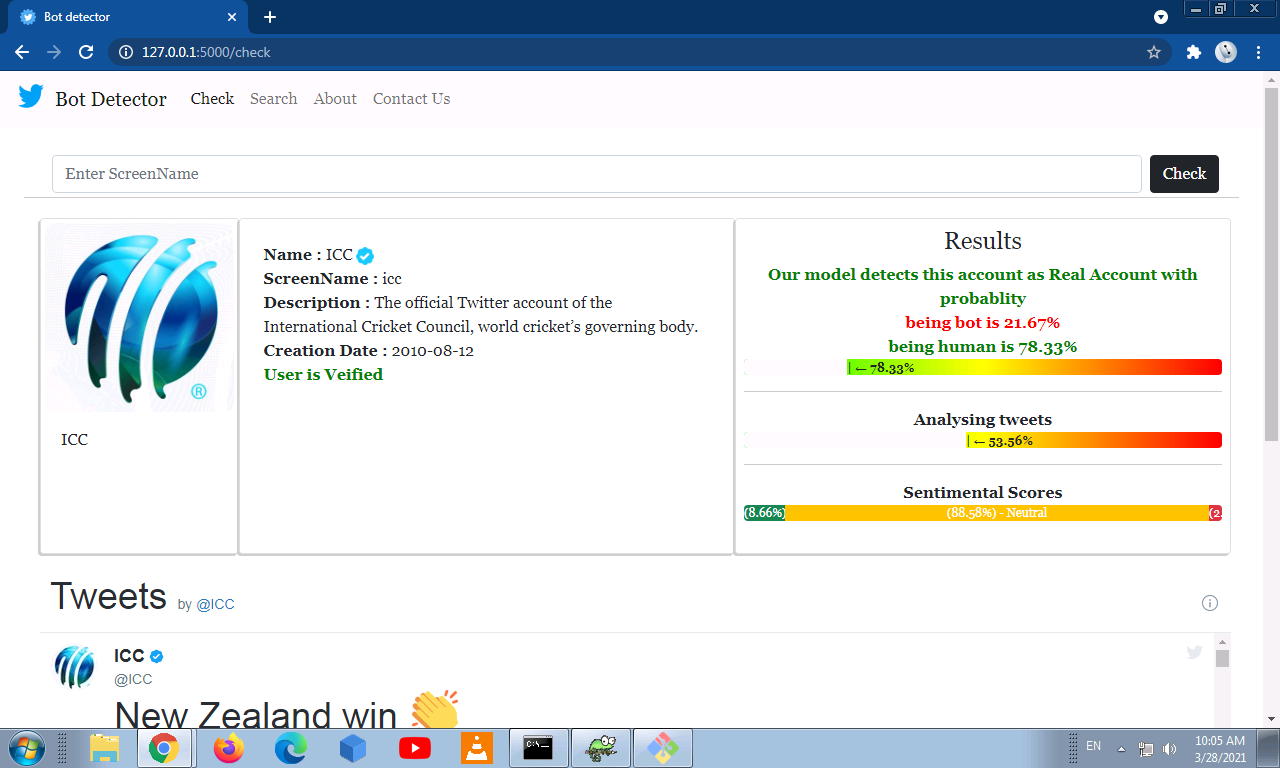
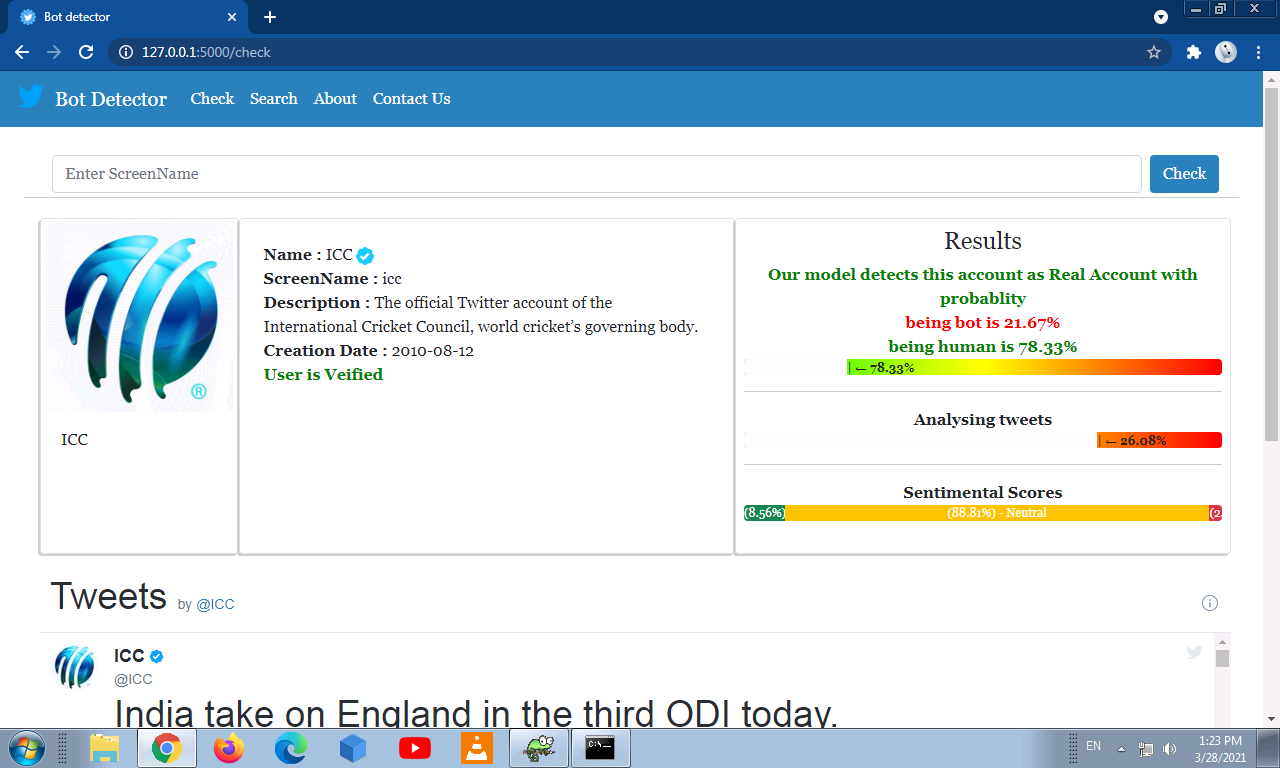
UI Changes

diff --git a/templates/contact.html b/templates/contact.html
@@ -9,86 +9,23 @@ input[type=text],input[type=email], select, textarea{
   box-sizing: border-box;
   resize: vertical;
 }
-
+.required{
+	color:red;
+	font-weight:bold;
+	
+}
 /* Style the label to display next to the inputs */
 label {
   padding: 12px 12px 12px 0;
   display: inline-block;
 }
-
-<!-- /* Style the submit button */ -->
-<!-- input[type=submit] { -->
-  <!-- background-color: #000000; -->
-  <!-- color: white; -->
-  <!-- padding: 12px 20px; -->
-  <!-- border: none; -->
-  <!-- border-radius: 4px; -->
-  <!-- cursor: pointer; -->
-  <!-- float: right; -->
-  <!-- width:20%; -->
-<!-- } -->
-
-<!-- /* Style the container */ -->
-<!-- .container { -->
-  <!-- border-radius: 5px; -->
-  <!-- background-color: #f2f2f2; -->
-  <!-- padding: 20px; -->
-<!-- } -->
-
-<!-- /* Floating column for labels: 25% width */ -->
-<!-- .col-25 { -->
-  <!-- float: left; -->
-  <!-- width: 25%; -->
-  <!-- margin-top: 6px; -->
-<!-- } -->
-
-<!-- /* Floating column for inputs: 75% width */ -->
-<!-- .col-75 { -->
-  <!-- float: left; -->
-  <!-- width: 75%; -->
-  <!-- margin-top: 6px; -->
-<!-- } -->
-
-<!-- /* Clear floats after the columns */ -->
-<!-- .row:after { -->
-  <!-- content: ""; -->
-  <!-- display: table; -->
-  <!-- clear: both; -->
-<!-- } -->
-
-<!-- /* Responsive layout - when the screen is less than 600px wide, make the two columns stack on top of each other instead of next to each other */ -->
-<!-- @media screen and (max-width: 600px) { -->
-  <!-- .col-25, .col-75, input[type=submit] { -->
-    <!-- width: 100%; -->
-    <!-- margin-top: 0; -->
-  <!-- } -->
-<!-- } -->
 {% endblock %}
 {% block body %}
-
-<!--
-<form>
-  <div class="mb-3">
-    <label for="exampleInputEmail1" class="form-label">Email address</label>
-    <input type="email" class="form-control" id="exampleInputEmail1" aria-describedby="emailHelp">
-    <div id="emailHelp" class="form-text">We'll never share your email with anyone else.</div>
-  </div>
-  <div class="mb-3">
-    <label for="exampleInputPassword1" class="form-label">Password</label>
-    <input type="password" class="form-control" id="exampleInputPassword1">
-  </div>
-  <div class="mb-3 form-check">
-    <input type="checkbox" class="form-check-input" id="exampleCheck1">
-    <label class="form-check-label" for="exampleCheck1">Check me out</label>
-  </div>
-  <button type="submit" class="btn btn-primary">Submit</button>
-</form>
--->
-<div class="container mt-3">
+<div class="container mt-3" style="padding:10px">
   <form action="/contact" method="POST">
     <div class="row">
       <div class="col-4">
-        <label for="name">Name</label>
+        <label for="name">Name</label><span class="required">*</span>
       </div>
       <div class="col-8">
         <input type="text" id="name" name="name" placeholder="Your name.." required>
@@ -96,7 +33,7 @@ label {
     </div>
     <div class="row">
       <div class="col-4">
-        <label for="email">Email</label>
+        <label for="email">Email</label><span class="required">*</span>
       </div>
       <div class="col-8">
         <input type="email" id="email" name="email" placeholder="Your Email address.." required>
@@ -104,7 +41,7 @@ label {
     </div>
     <div class="row">
       <div class="col-4">
-        <label for="about">Reason</label>
+        <label for="about">Reason</label><span class="required">*</span>
       </div>
       <div class="col-8">
         <select id="about" name="about" required>
@@ -117,7 +54,7 @@ label {
     </div>
     <div class="row">
       <div class="col-4">
-        <label for="message">Message</label>
+        <label for="message">Message</label><span class="required">*</span>
       </div>
       <div class="col-8">
         <textarea id="message" name="message" placeholder="Write something.." style="height:200px" required></textarea>
@@ -126,7 +63,7 @@ label {
 	
     <div class="row">
 	<center>
-     <button class="btn btn-dark" type="submit">Submit</button>
+     <button class="btn" style="background-color:#2982BD;color:white" type="submit">Submit</button>
 	  </center>
     </div>
 	

diff --git a/templates/base.html b/templates/base.html
@@ -67,7 +67,8 @@
   </div>
 </nav> -->
 
-<nav class="navbar navbar-expand-lg navbar-light bg-light">
+<!-- <nav class="navbar navbar-expand-lg navbar-light bg-light"> -->
+<nav class="navbar navbar-expand-lg navbar-dark" style="background-color:#2982BD">
   <div class="container-fluid">
     <a class="navbar-brand" href="#">
       <img src="{{url_for('static',filename='img/logo.png')}}" alt="" width="38" height="24" class="d-inline-block align-top">
@@ -79,17 +80,18 @@
     <div class="collapse navbar-collapse" id="navbarNavAltMarkup">
       <div class="navbar-nav">
 		<a class="nav-link active" aria-current="page" href="{{url_for('checkpg')}}">Check</a>
-		<a class="nav-link" href="{{url_for('search')}}">Search</a>
-		<a class="nav-link" href="{{url_for('about')}}">About</a>
-		<a class="nav-link" href="{{url_for('contact')}}">Contact Us</a>
+		<a class="nav-link active" href="{{url_for('search')}}">Search</a>
+		<a class="nav-link active" href="{{url_for('about')}}">About</a>
+		<a class="nav-link active" href="{{url_for('contact')}}">Contact Us</a>
       </div>
     </div>
   </div>
 </nav>	
 {% block body %}
 {% endblock %}
-<br>
-<nav class="navbar navbar-light bg-light" id="footer">
+<!-- <nav class="navbar navbar-light bg-light" id="footer"> -->
+<nav class="navbar navbar-dark" style="background-color:#313031" id="footer">
+	
   <div class="container-fluid" style="overflow:hidden"> 
     <a class="navbar-brand" style="margin:auto" href="#">	
       <b style="font-size:10pt">For more details mail us on prmane03@gmail.com</b>	  

diff --git a/templates/about.html b/templates/about.html
@@ -32,5 +32,25 @@ Many Twitterbots are specialized for various purposes. Depending on what the par
 </ul>
 </div>
 
-
+ <button class="btn btn-outline-dark">
+	<a class="nav-link" href="https://github.com/prmane03/BotDetector" target="_blank" onMouseOver="this.style.color='White'"
+        onMouseOut="this.style.color='#3979DE'">
+	<img src="{{url_for('static',filename='img/githublogo.png')}}" height="20px" width="20px">
+	<b>Contribute</b>
+	</a>
+</button>
+ <button class="btn btn-outline-info">
+	<a class="nav-link" href="https://twitter.com/prmane03" target="_blank" onMouseOver="this.style.color='White'"
+        onMouseOut="this.style.color='#3979DE'">
+	<img src="{{url_for('static',filename='img/logo.png')}}" height="20px" width="30px">
+	<b>Follow</b>
+	</a>
+</button>
+ <button class="btn btn-outline-primary">
+	<a class="nav-link" href="https://www.linkedin.com/in/prmane03/" target="_blank" onMouseOver="this.style.color='White'"
+        onMouseOut="this.style.color='#3979DE'">
+	<img src="{{url_for('static',filename='img/linkedinlogo.png')}}" height="20px" width="20px">
+	<b>Connect</b>
+	</a>
+</button>
 {% endblock %}

diff --git a/templates/check.html b/templates/check.html
@@ -10,11 +10,11 @@
 }
 {% endblock %}
 {% block body %}
-<div class="row m-2 p-3" ">
+<div class="row m-2 p-3">
 	<div class="row m-1">
 		<form class="d-flex" action="/check" method="POST">
 			<input class="form-control me-2" type="search" placeholder="Enter ScreenName" aria-label="Search" name="scrnm" required>
-			<button class="btn btn-dark" type="submit">Check</button>
+			<button class="btn" type="submit" style="background-color:#2982BD;color:white">Check</button>
 		</form>
 	</div>
 	
@@ -97,18 +97,16 @@
 		</div>
 	{% endif %}
 	
-	
 {% if result[2] and data %}		
     <div class="row m-1" style="height:600px">
 		<a class="twitter-timeline" data-width="100%" data-height="100%" href="https://twitter.com/{{data['screen_name']}}?ref_src=twsrc%5Etfw">
 		Tweets by {{data['screen_name']}}
 		</a>
 		<script async src="https://platform.twitter.com/widgets.js" charset="utf-8"/>
-	</div>
-	
+	</div>	
 {% endif %}	
- </div>
-  
+
+</div>
 <!-- Simillar Accounts  -->
 {% if same_acc[4] %}
 <div class="row m-1 p-3" style="border: 1px solid black;color:#f2f2f2;background-color:#212529">

diff --git a/templates/search.html b/templates/search.html
@@ -1,9 +1,5 @@
 {% extends "base.html" %}
 {% block style %}
-<!-- img { -->
-	<!-- height:50px; -->
-	<!-- width:50px; -->
-<!-- } -->
 {% endblock %}
 {% block body %}
 
@@ -12,7 +8,7 @@
     <div class="row m-1">
     <form class="d-flex" action="/search" method="POST">
         <input class="form-control me-2" type="search" placeholder="Enter User Name" aria-label="Search" name="usrnm" required>
-        <button class="btn btn-dark" type="submit">Search</button>
+        <button class="btn" style="background-color:#2982BD;color:white" type="submit">Search</button>
     </form>
     </div>
 </div>
@@ -25,7 +21,6 @@
 	
     <div class="card col-xs-2 col-md-2 col-lg-2 p-1">
         <img src="{{data[i].profile_image_url | replace('normal','400x400')}}" class="card-img-top" alt="Usr Img" style="border-radius: 5%;"> 
-       <!-- <img src="twitter.com/{{data[i]['screen_name']}}/photo" class="card-img-top" alt="Usr Img" style="border-radius: 50%;"> -->
     </div>
 	  <div class="card p-2 col-xs-10 col-md-10 col-lg-10">
 	  <div class="card-body">

diff --git a/app.py b/app.py
@@ -243,7 +243,7 @@ def check():
                 print("1 stored")
                 result[3] = sentiment_scores(scrnm)
             print(result)
-            print("same_acc : ",same_acc)
+            print("same_acc : ",same_acc[5])
             return render_template("check.html",data=data,same_acc=same_acc,error=None,result=result)
         except Exception as e:
             print("exceptuon : "+str(e))
